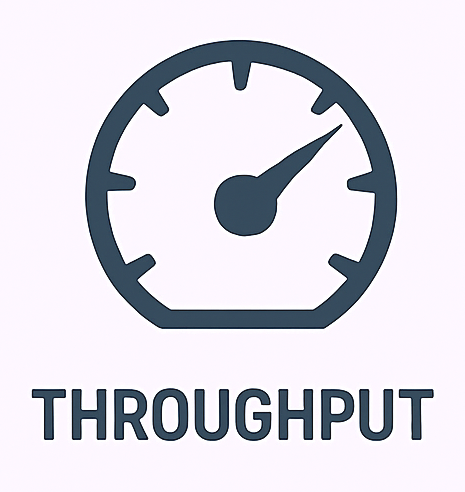
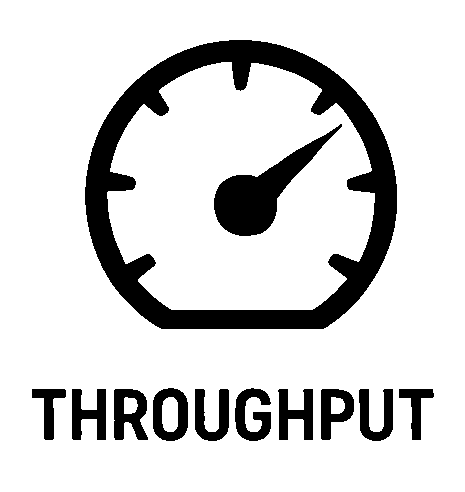
cppcon-2026

Changed region(s): [[0.1806, 0.061, 0.8731, 0.6707], [0.0602, 0.7927, 0.9333, 0.9146]]

diff --git a/cppcon-2026/index.html b/cppcon-2026/index.html
@@ -122,9 +122,10 @@ What affects performance? if so, how much and why?
 
 ```cpp
 What if data spikes?
-What if cache will not be hot?
-What if branch will not be predicted?
-Whaf if code/data layout changes?
+What if the environment inherently has jitter?
+What if caches aren’t as hot?
+What if branches aren’t as predictable?
+What if the code/data layout changes?
 What if ...?
 ```
 <!-- .element: class="fragment" -->
@@ -600,10 +601,10 @@ assumptions: use perf.data
 <table>
 <tr>
 <td>
-<img src="images/lat.png" style="width: 200px; background:white; border:none; box-shadow:none;" />
+<img src="images/lat.png" style="width: 100%; background:white; border:none; box-shadow:none;" />
 </td>
 <td>
-<pre><code>Latency
+<pre><code style="width:760px">Latency
  ├─ Time it takes for a single operation to complete
  └─ ns/op
 </code></pre>
@@ -614,10 +615,10 @@ assumptions: use perf.data
 <table>
 <tr>
 <td>
-<img src="images/thr.png" style="width: 200px; background:white; border:none; box-shadow:none;" />
+<img src="images/thr.png" style="width: 100%; background:white; border:none; box-shadow:none;" />
 </td>
 <td>
-<pre><code>Throughput
+<pre><code style="width:760px">Throughput
  ├─ Total number of operations
  ├  completed in a given amount of time
  ├─ ops/s, Gb/s, ...
@@ -945,7 +946,9 @@ clang++ -O2 ...
 ```
 
 ```
-perf microbench func ... | perf microbench plot -p ecdf
+perf microbench func ... | llvm-mca
+alias bench='perf microbench'
+bench func ... | bench plot -p ecdf # losless
 ```
 
 ----
